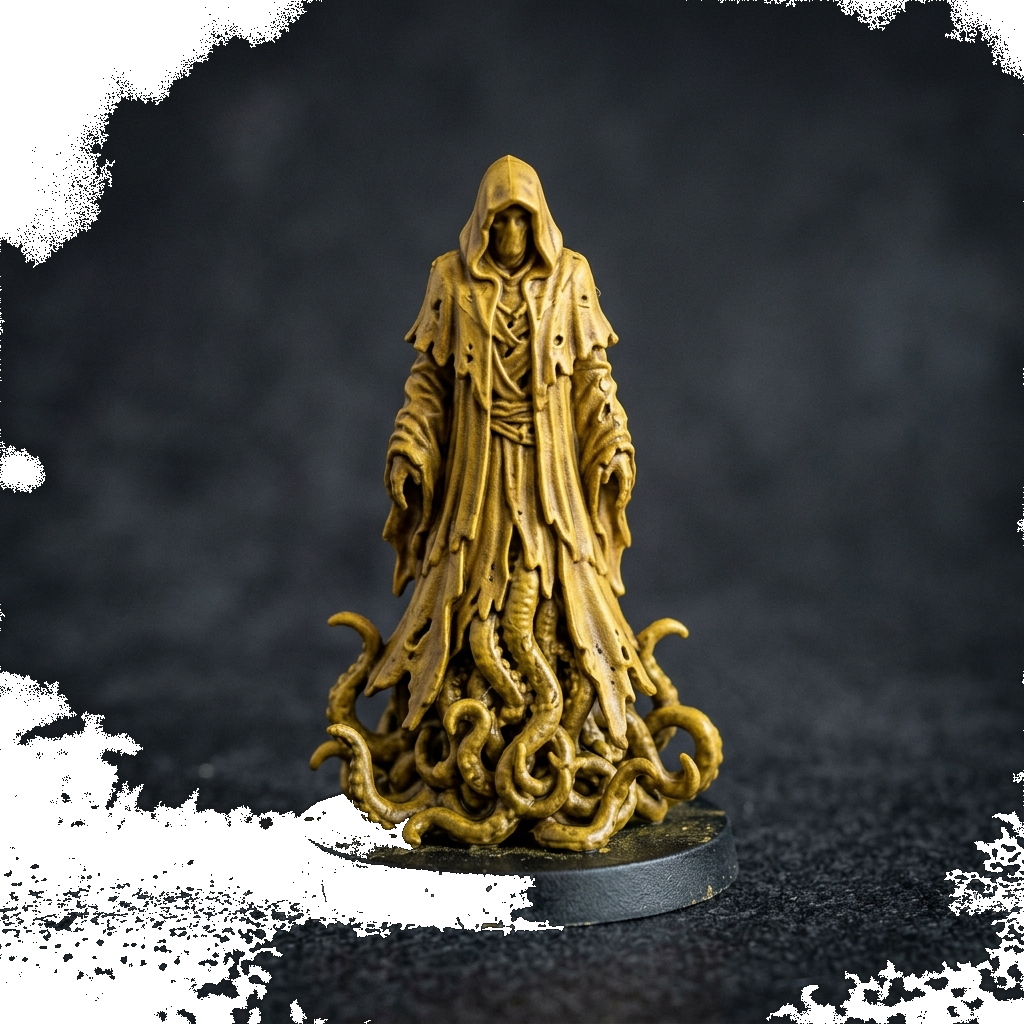
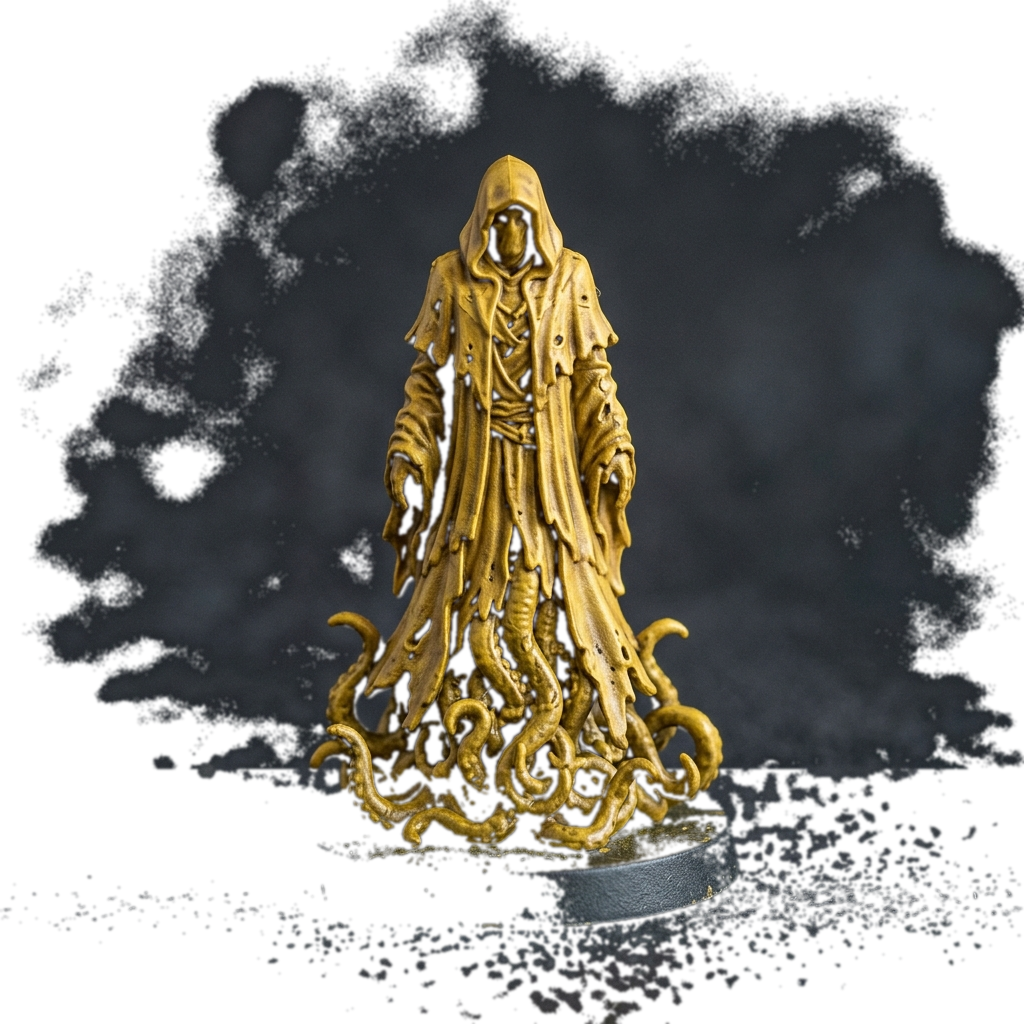
fix: ultra-clean miniature PNG cutouts to erase dark backdrop arches & dark pedestal discs

diff --git a/src/game/miniatures-3d.js b/src/game/miniatures-3d.js
@@ -94,7 +94,7 @@ export class MiniatureFactory {
     const faceMat = new THREE.MeshBasicMaterial({
       map: texture,
       transparent: true,
-      alphaTest: 0.05,
+      alphaTest: 0.12,
       side: THREE.DoubleSide
     });
 
